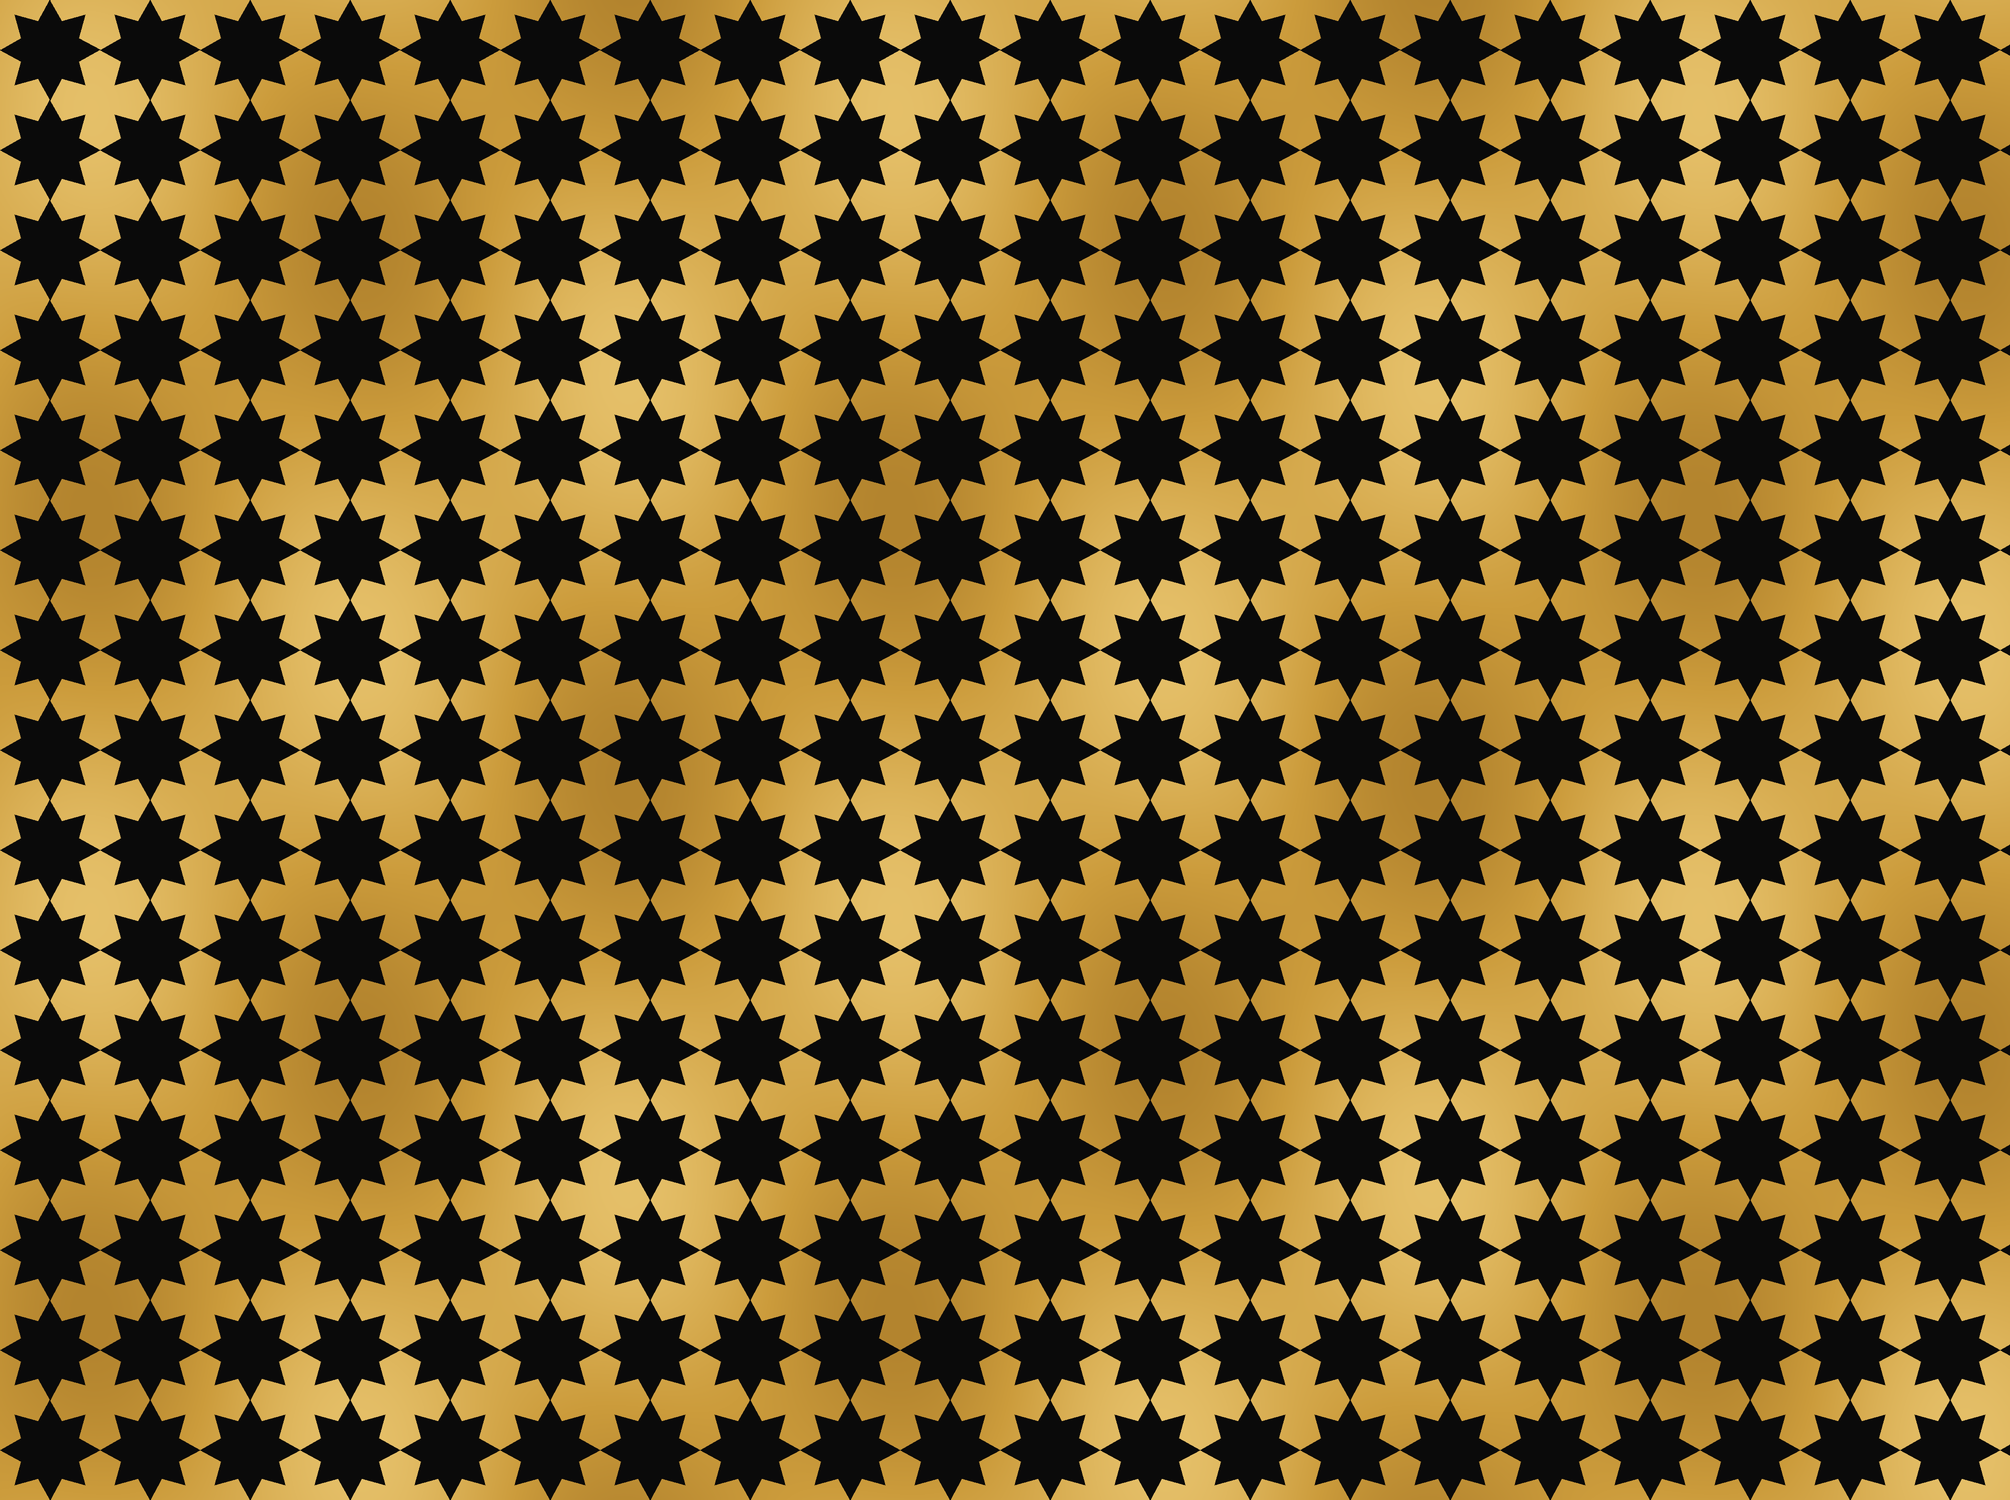
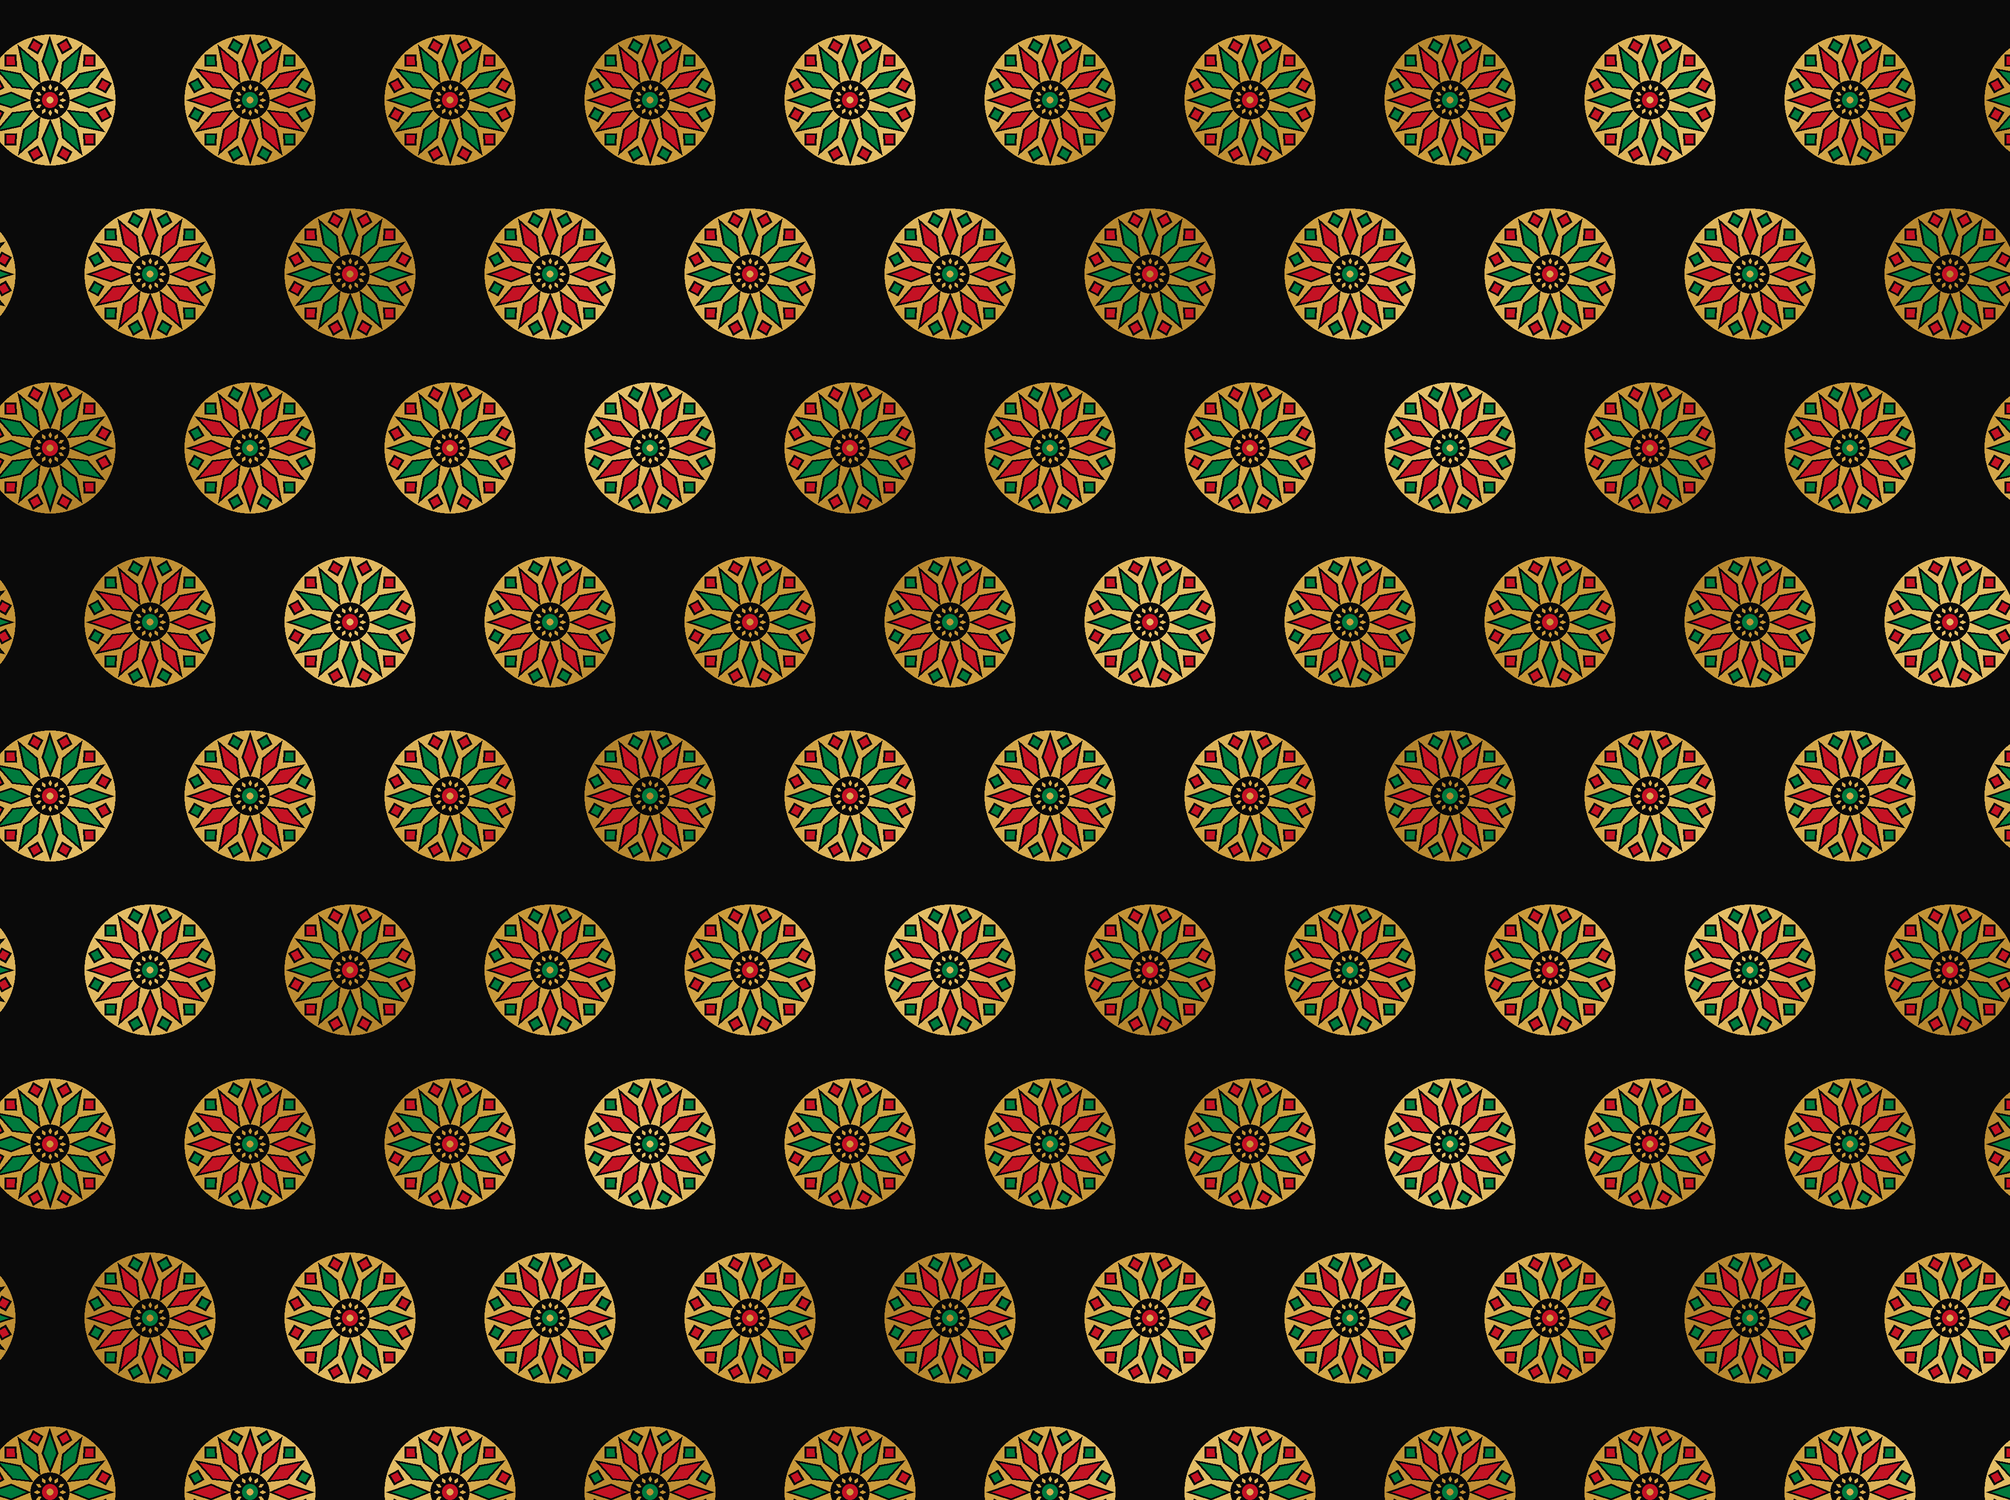
Zellige inside pocket: small rosettes on black
Claude-Session: https://claude.ai/code/session_01Mt1Tg14bgvqpkRSeX5tTDt

diff --git a/heritage-crossbody-bag/make_zellige_pieces.py b/heritage-crossbody-bag/make_zellige_pieces.py
@@ -25,10 +25,16 @@ SS = 2
 
 
 def inside_pocket(w=2010, h=1500):
+    """Calm lining: offset rows of small rosettes on black."""
     W, H = w * SS, h * SS
-    im = Image.new("RGB", (W, H), GOLD)
+    im = Image.new("RGB", (W, H), BLACK)
     d = ImageDraw.Draw(im)
-    star_and_cross(d, W, H, 100 * SS, 50 * SS, 50 * SS, [BLACK], max(2, SS * 2))
+    g = max(2, SS * 2)
+    step = 200 * SS
+    for j in range(-1, int(H / step) + 2):
+        off = step / 2 if j % 2 else 0
+        for i in range(-1, int(W / step) + 2):
+            mini(d, i * step + off + step / 4, j * step * 0.87 + step / 2, step * 0.32, i + j, g)
     return gild(im).resize((w, h), Image.LANCZOS)
 
 
